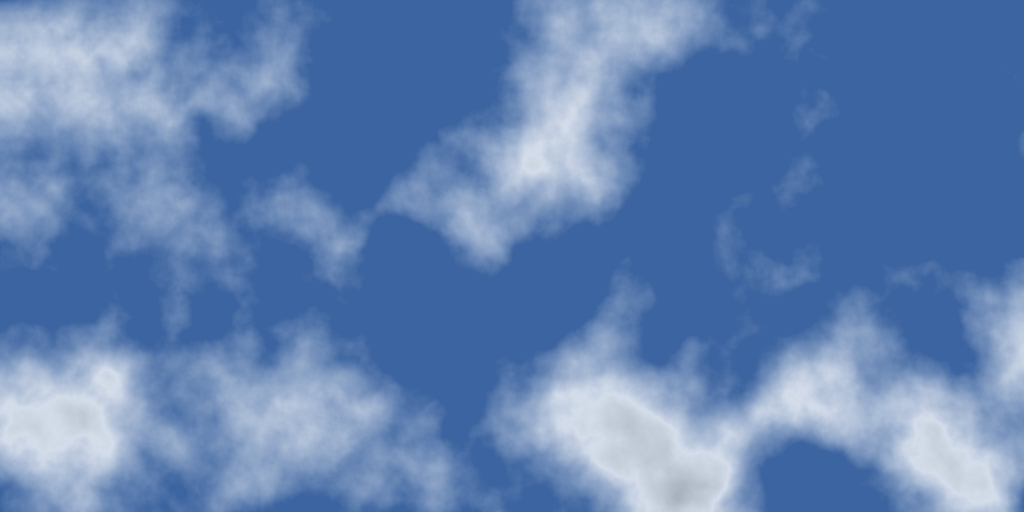
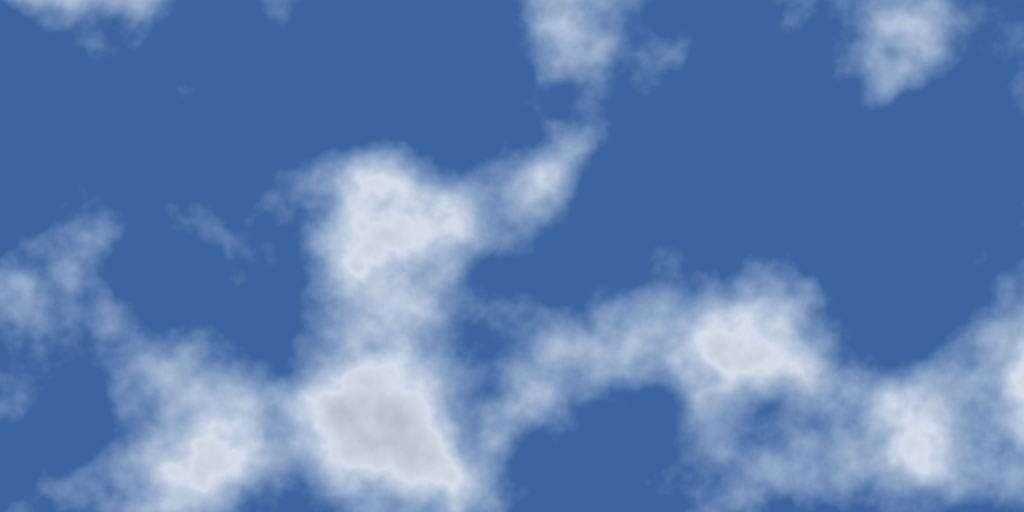
Update

diff --git a/docs/index.html b/docs/index.html
@@ -3,6 +3,6 @@
 <body>
 Today's cloud<br/>
 <img src="latest.png"/><br/>
-Latest update: Sun Feb 28 22:09:07 UTC 2021
+Latest update: Mon Mar  1 22:11:56 UTC 2021
 </body>
 </html>
